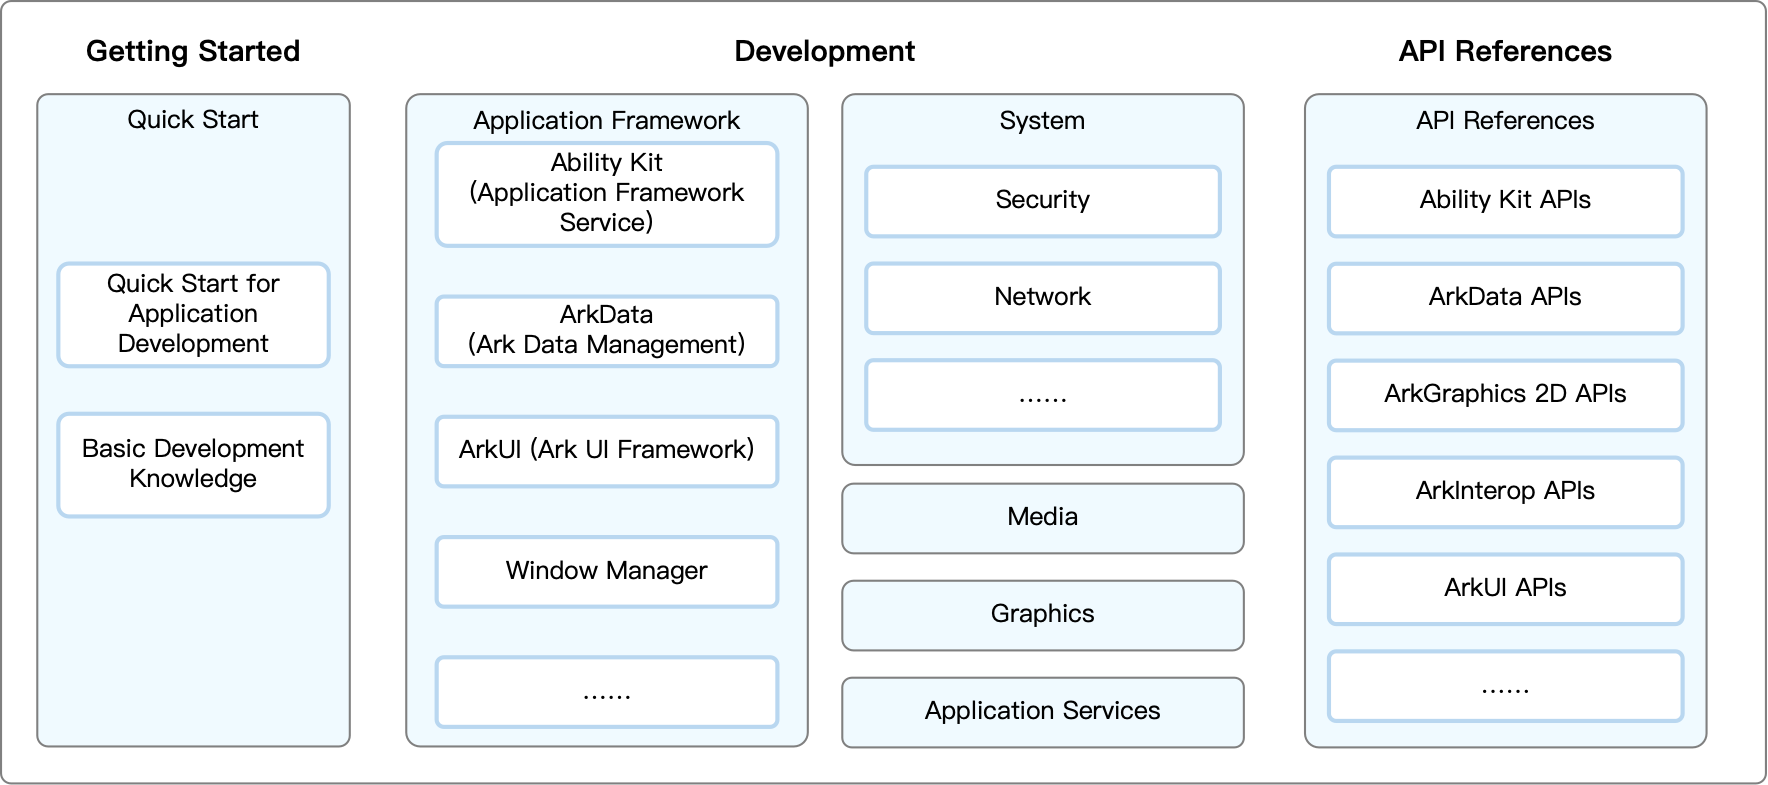
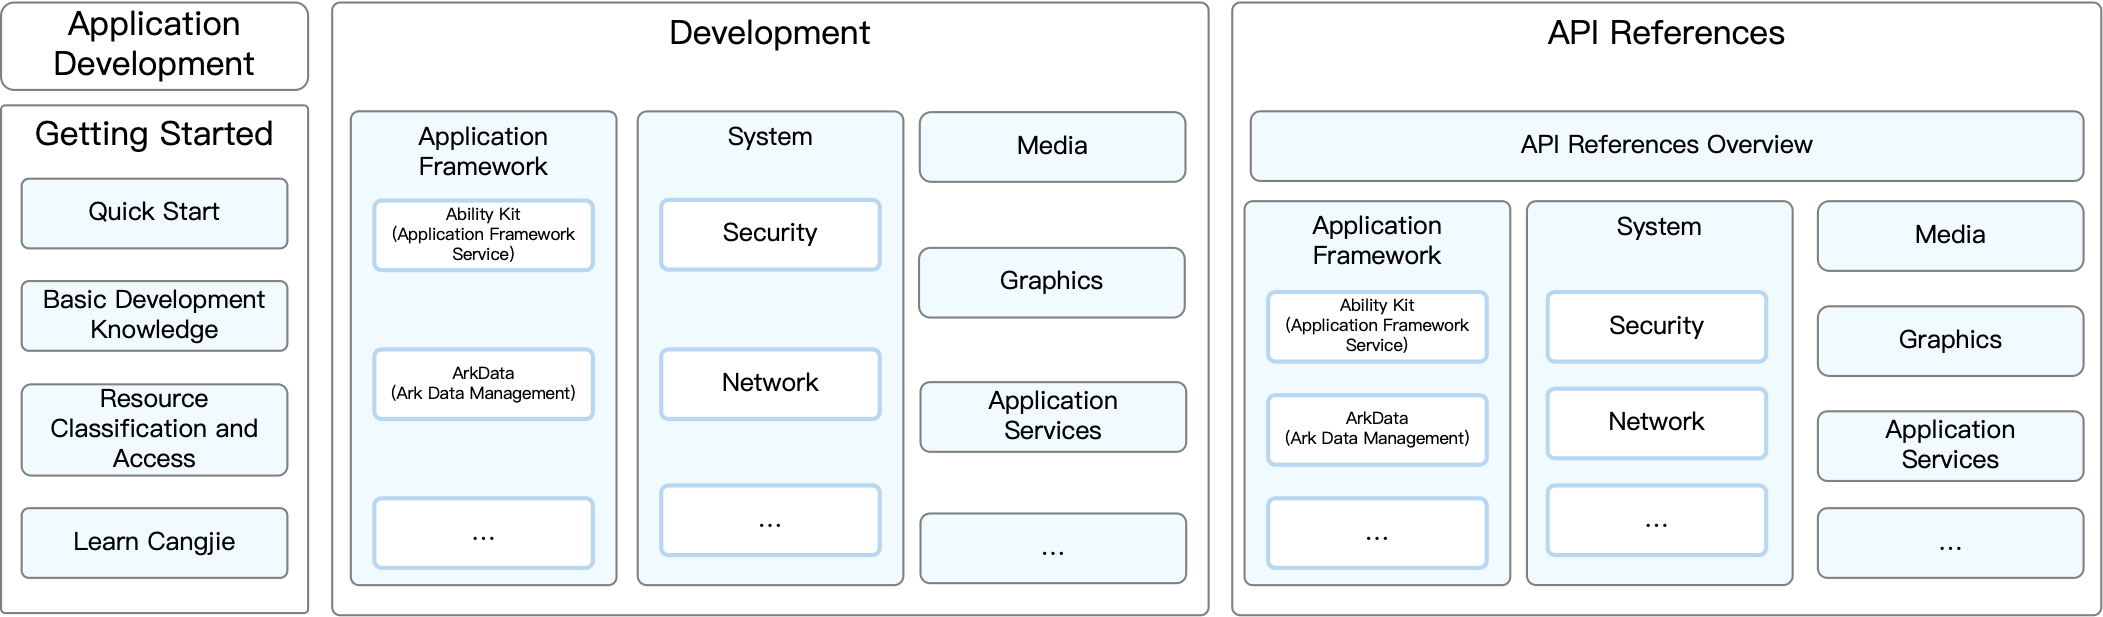
docs: fix readme

Changed region(s): [[0.0, 0.0, 1.0, 1.0], [0.1244, 0.7391, 0.1555, 0.7699]]

diff --git a/README.md b/README.md
@@ -18,14 +18,19 @@ The overall architecture of OpenHarmony Cangjie documentation is illustrated bel
 
 As shown above, the application developer documentation primarily includes:
 
-1. **[Getting Started](./en/application-dev/cj-start/README.md)**: Guides developers through building their first OpenHarmony application using Cangjie, creating their first hybrid application with Cangjie and ArkTS, and other simple "Hello World" examples. Additionally, this section introduces fundamental development knowledge to help developers gain a preliminary understanding of OpenHarmony application development.
-2. **[Guides](./en/application-dev/README.md)**: This section explains relevant concepts, principles, mechanisms, and detailed development steps, covering:
+1. **[Application Development Guide](./en/application-dev/cj-start/start/cj-start-application-development-overview.md)**: Provides an overview of application development documentation to help developers understand the full picture.
+2. **[Getting Started](./en/application-dev/cj-start/README.md)**:
+   - **[Quick Start](./en/application-dev/cj-start/start/quick-start/README.md)**: Introduces development preparations (basic concepts and tool setup) and guides developers through building their first OpenHarmony application using the Cangjie programming language, offering a preliminary understanding of OpenHarmony application development through a simple example.
+   - **[Development Fundamentals](./en/application-dev/cj-start/basic-knowledge/README.md)**: Covers foundational knowledge for OpenHarmony application development, including application package basics and configuration files.
+   - **[Resource Classification and Access](./en/application-dev/cj-start/start/ide-resource-categories-and-access.md)**: Explains resource types such as strings, colors, fonts, spacing, and icons used in OpenHarmony application development.
+   - **[Learning Cangjie Language](./en/application-dev/learn-cj/README.md)**: Introduces the features and syntax of the Cangjie programming language to help developers better understand and utilize it for OpenHarmony application development.
+3. **[Development](./en/application-dev/README.md)**: Introduces related concepts, principles, and detailed development steps, including the following:
    - **Application Framework**: Includes Ability Kit (application framework services), ArkData (Ark data management), ArkUI (Ark UI framework), window management, screen management, ArkWeb (Ark Web), Core File Kit (basic file services), IPC Kit (inter-process communication services), Localization Kit (localization development services), etc.
-   - **System**: Includes security (application control access, cryptographic algorithm framework services, key management services, etc.), networking (short-range communication services, network services, cellular communication services, etc.), basic functionalities (process and thread communication, upload/download services, etc.), hardware (sensor services), and debugging/optimization (performance analysis services, application testing services, debugging commands, etc.).
+   - **System**: Covers security (application access control, cryptographic algorithm framework services, key management services, etc.), networking (short-range communication services, network services, cellular communication services, etc.), basic functionalities (process/thread communication, upload/download services, etc.), hardware (sensor services), and debugging/optimization (performance analysis services, application testing services, debugging commands, etc.).
    - **Media**: Includes camera services, image processing services, media file management services, etc.
    - **Graphics**: Includes Ark 2D graphics services.
    - **Application Services**: Includes location services.
-3. **[API Reference](./en/application-dev/reference/README.md)**: Provides developers with functional descriptions of APIs, parameter and return value explanations, permission information, sample code, and more to help them understand and use OpenHarmony APIs in the Cangjie version.
+4. **[API Reference](./en/application-dev/reference/README.md)**: Provides Cangjie language APIs for OpenHarmony application development, including functional descriptions, parameters, return values, permission details, and sample code to assist developers in understanding and using the Cangjie language for OpenHarmony application development.
 
 ## Documentation Directory
 
